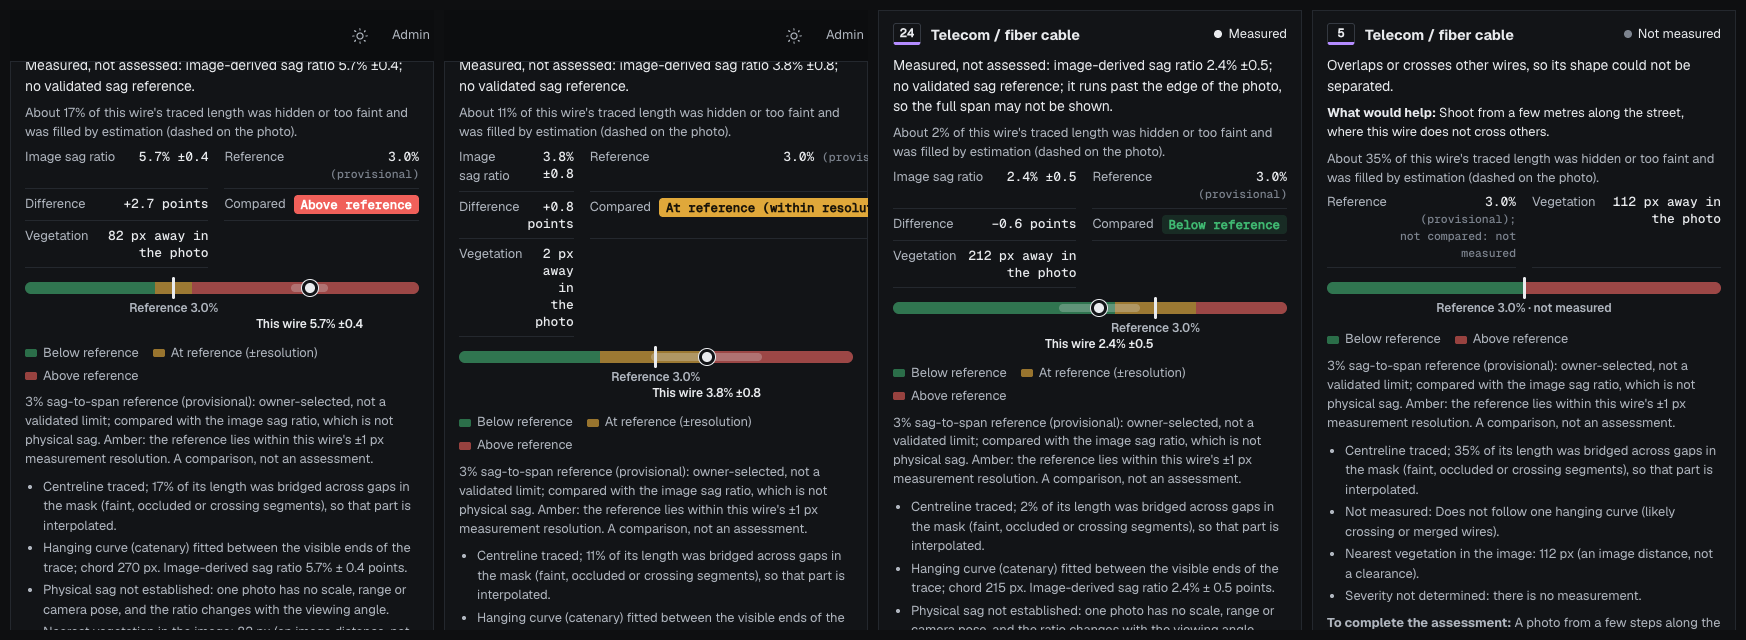
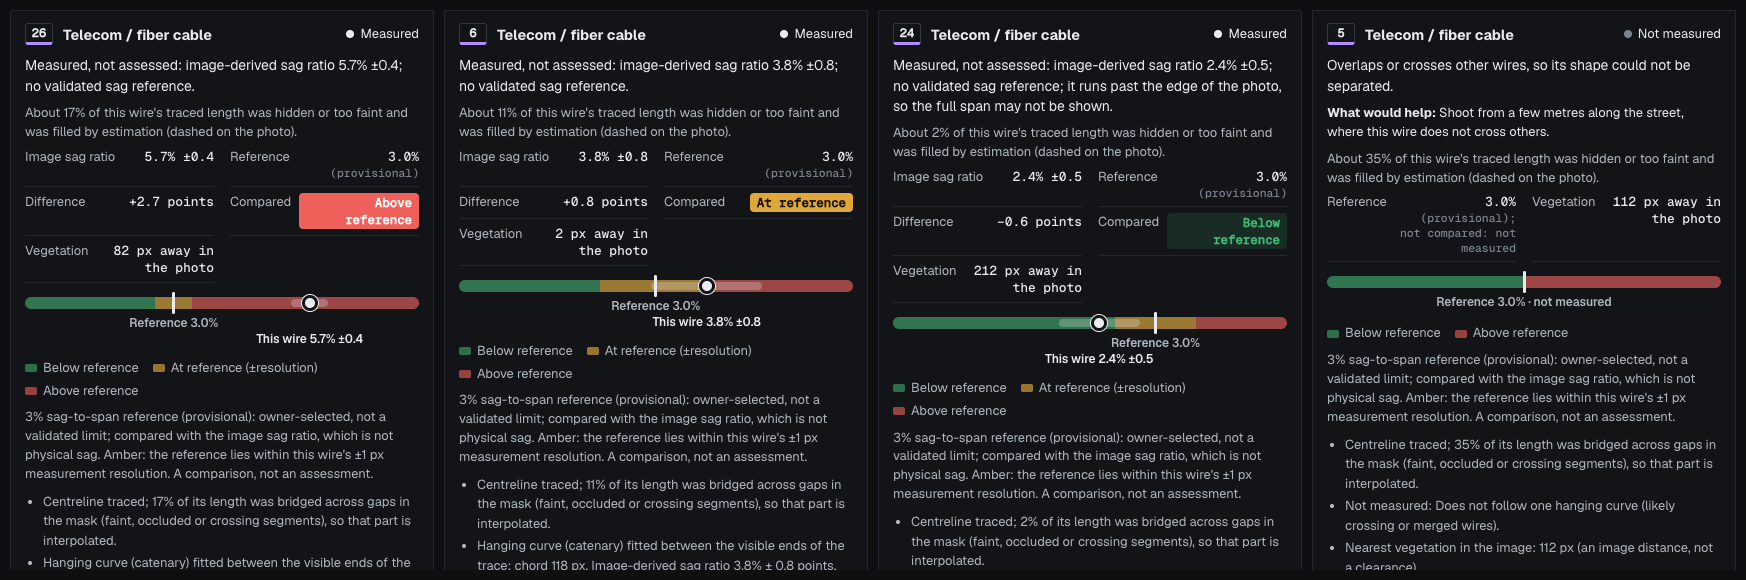
fix: comparison pill and reference status no longer clip in the selected-wire panel (S8)
Seen on the live P-B1D137 record: 'At reference (within resolution)' and
'(provisional)' ran past the panel edge. Short pill text with the full
wording as its title; status on its own line. Live screenshots updated.

Changed region(s): [[0.0, 0.031, 0.9897, 0.9931], [0.9278, 0.031, 0.9897, 0.0621]]

diff --git a/app/web/assets/field.js b/app/web/assets/field.js
@@ -438,7 +438,7 @@ function spanDetail(r, w, mode) {
       [`Image sag ratio${w.reason_code === "endpoint_unavailable" ? " (visible part)" : ""}`, esc(measuredText(w))],
       ["Reference", w.comparison ? `${pp(w.comparison.reference)} <small>(${esc(w.comparison.status)})</small>` : "None validated"],
       ["Difference", w.comparison?.position ? `${w.comparison.difference_pp > 0 ? "+" : w.comparison.difference_pp < 0 ? "−" : ""}${Math.abs(w.comparison.difference_pp).toFixed(1)} points` : null],
-      ["Compared", w.comparison?.position ? `<span class="fx-cmp ${w.comparison.position}">${POS[w.comparison.position]}</span>` : null],
+      ["Compared", w.comparison?.position ? `<span class="fx-cmp ${w.comparison.position}" title="${esc(POS[w.comparison.position])}">${{ below: "Below", at: "At", above: "Above" }[w.comparison.position]} reference</span>` : null],
       ["Vegetation", vegText(w.veg_clearance)],
     ]) : kv([["Reference", w.comparison ? `${pp(w.comparison.reference)} <small>(${esc(w.comparison.status)}); not compared: not measured</small>` : null], ["Vegetation", vegText(w.veg_clearance)]])}
     ${sagMeter(w)}

diff --git a/app/web/assets/field.css b/app/web/assets/field.css
@@ -573,3 +573,5 @@ html.fs-root { height: auto; min-height: 100%; }
 .fx-cmp-line .fx-cmp { margin-right: 4px; }
 .fx-spans td.cmp { white-space: nowrap; }
 .fx-dl small { font-size: 12px; color: var(--text-3); }
+.fx-dl dd small { display: block; }
+.fx-dl dd .fx-cmp { white-space: normal; }
